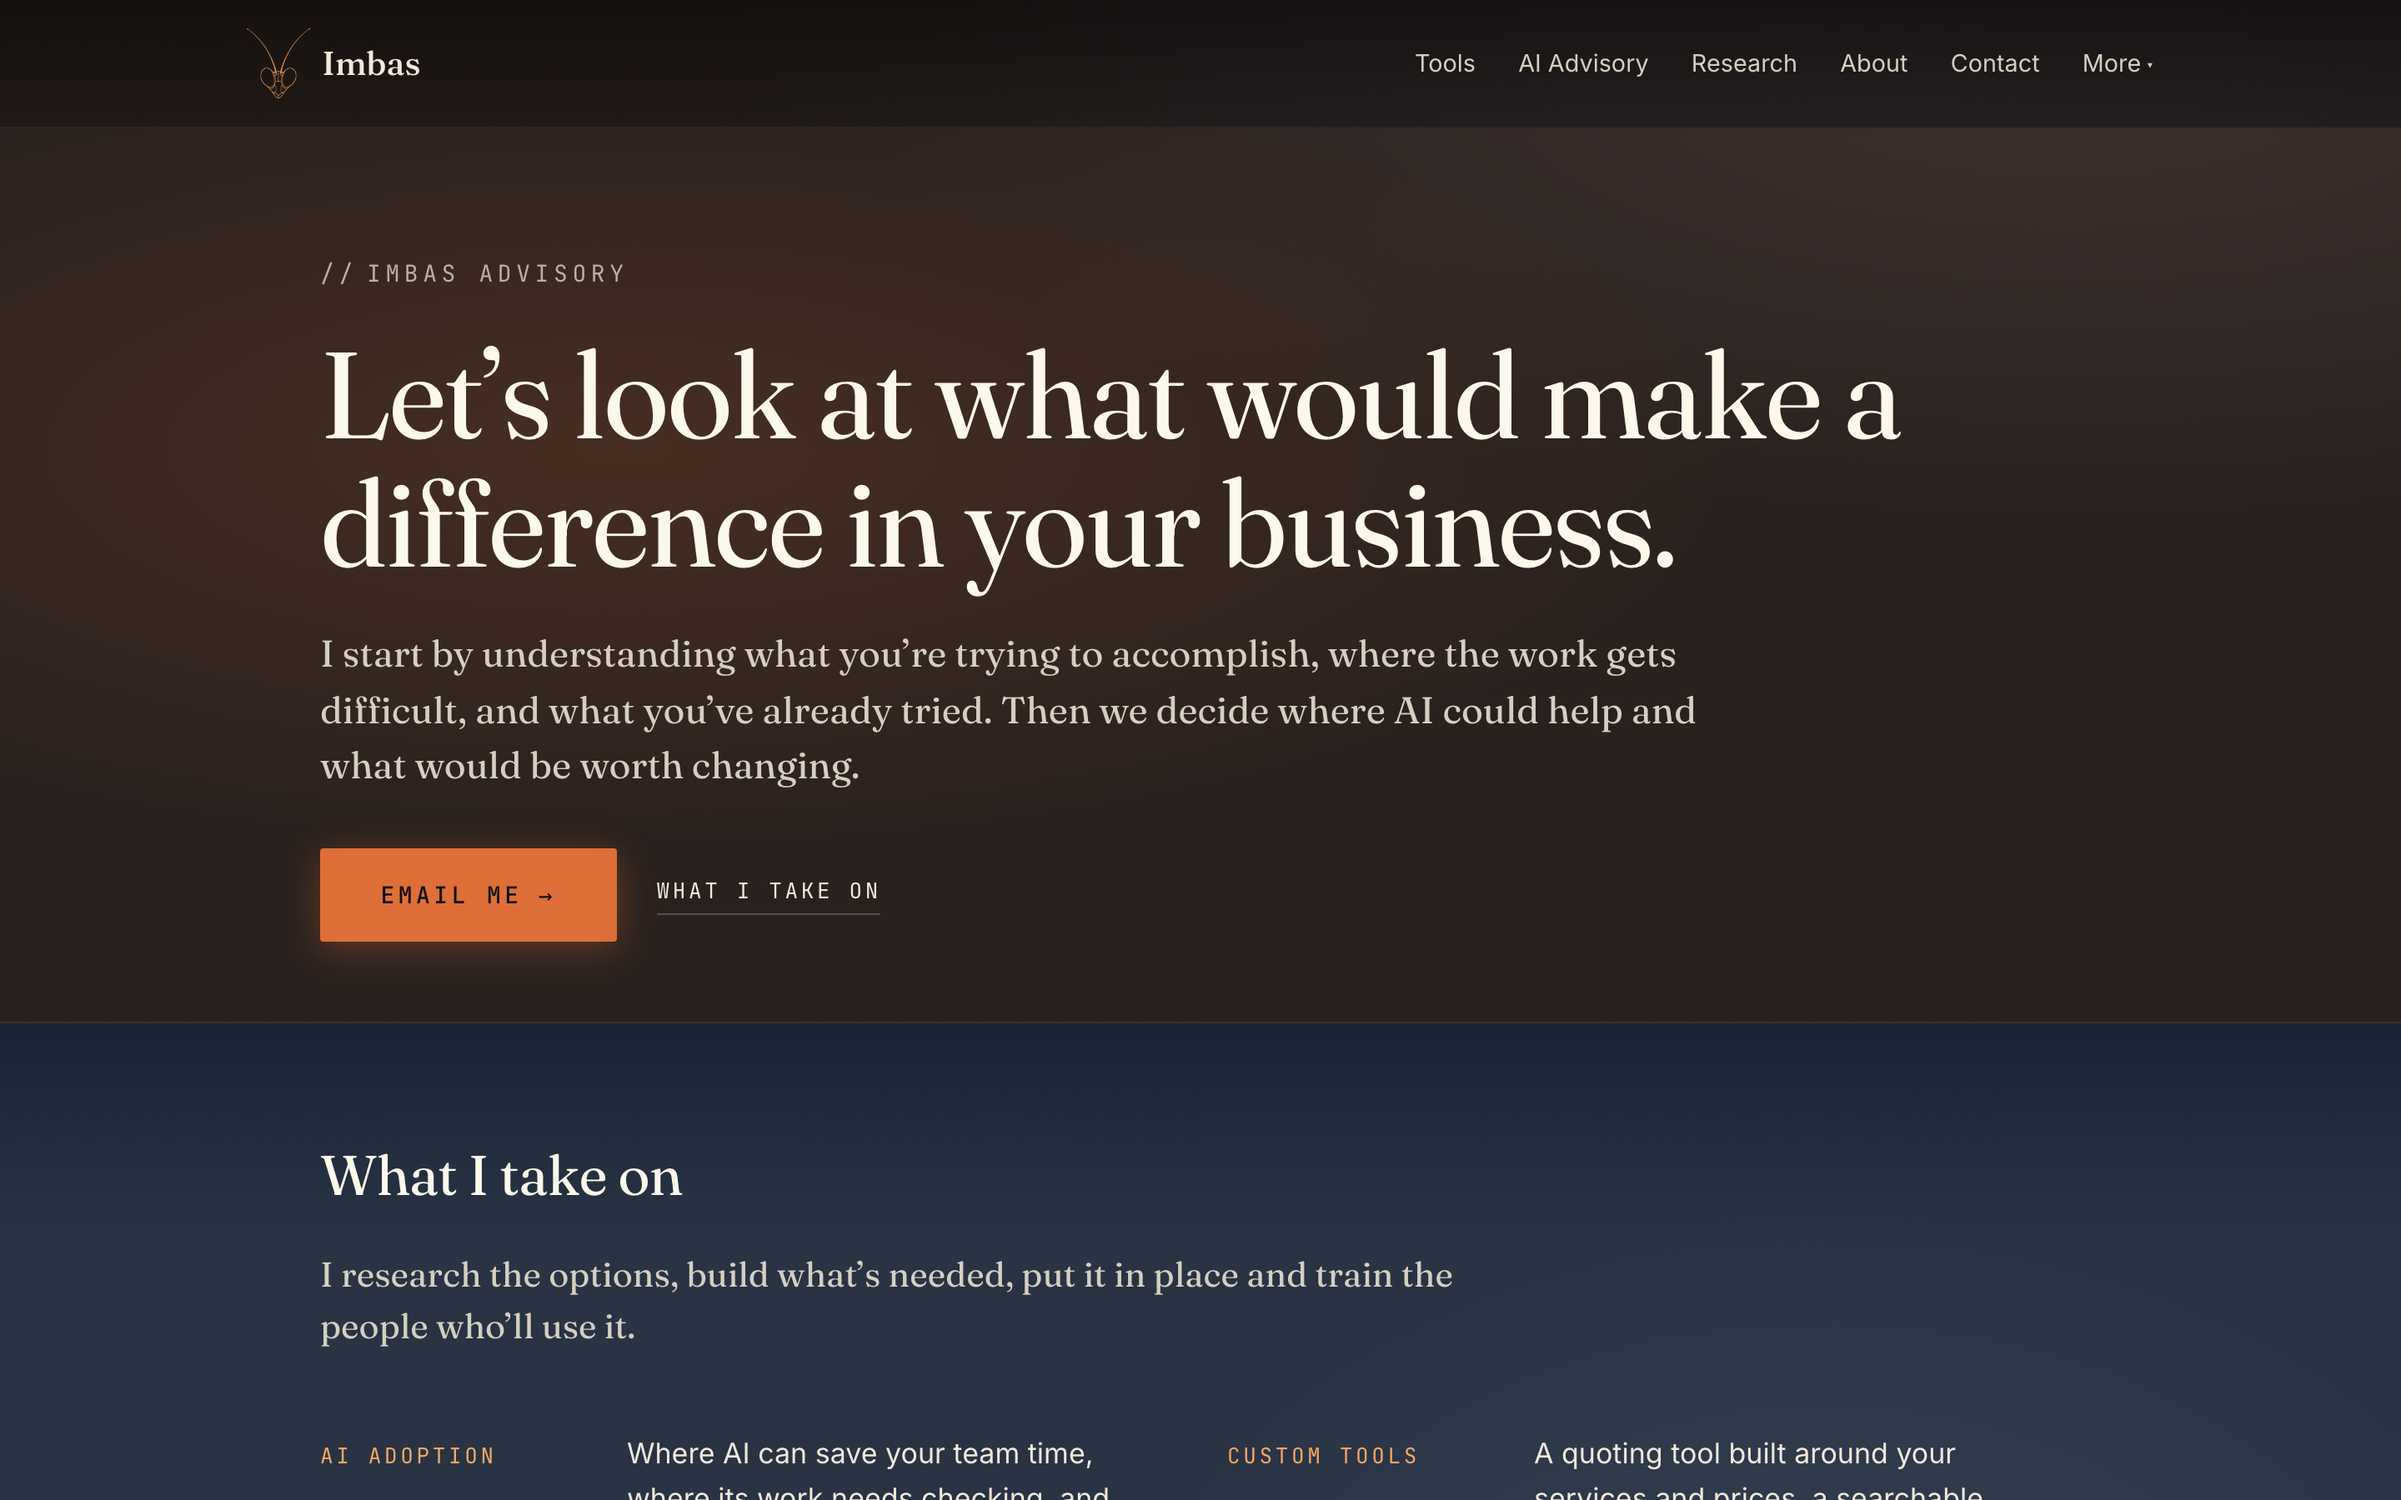
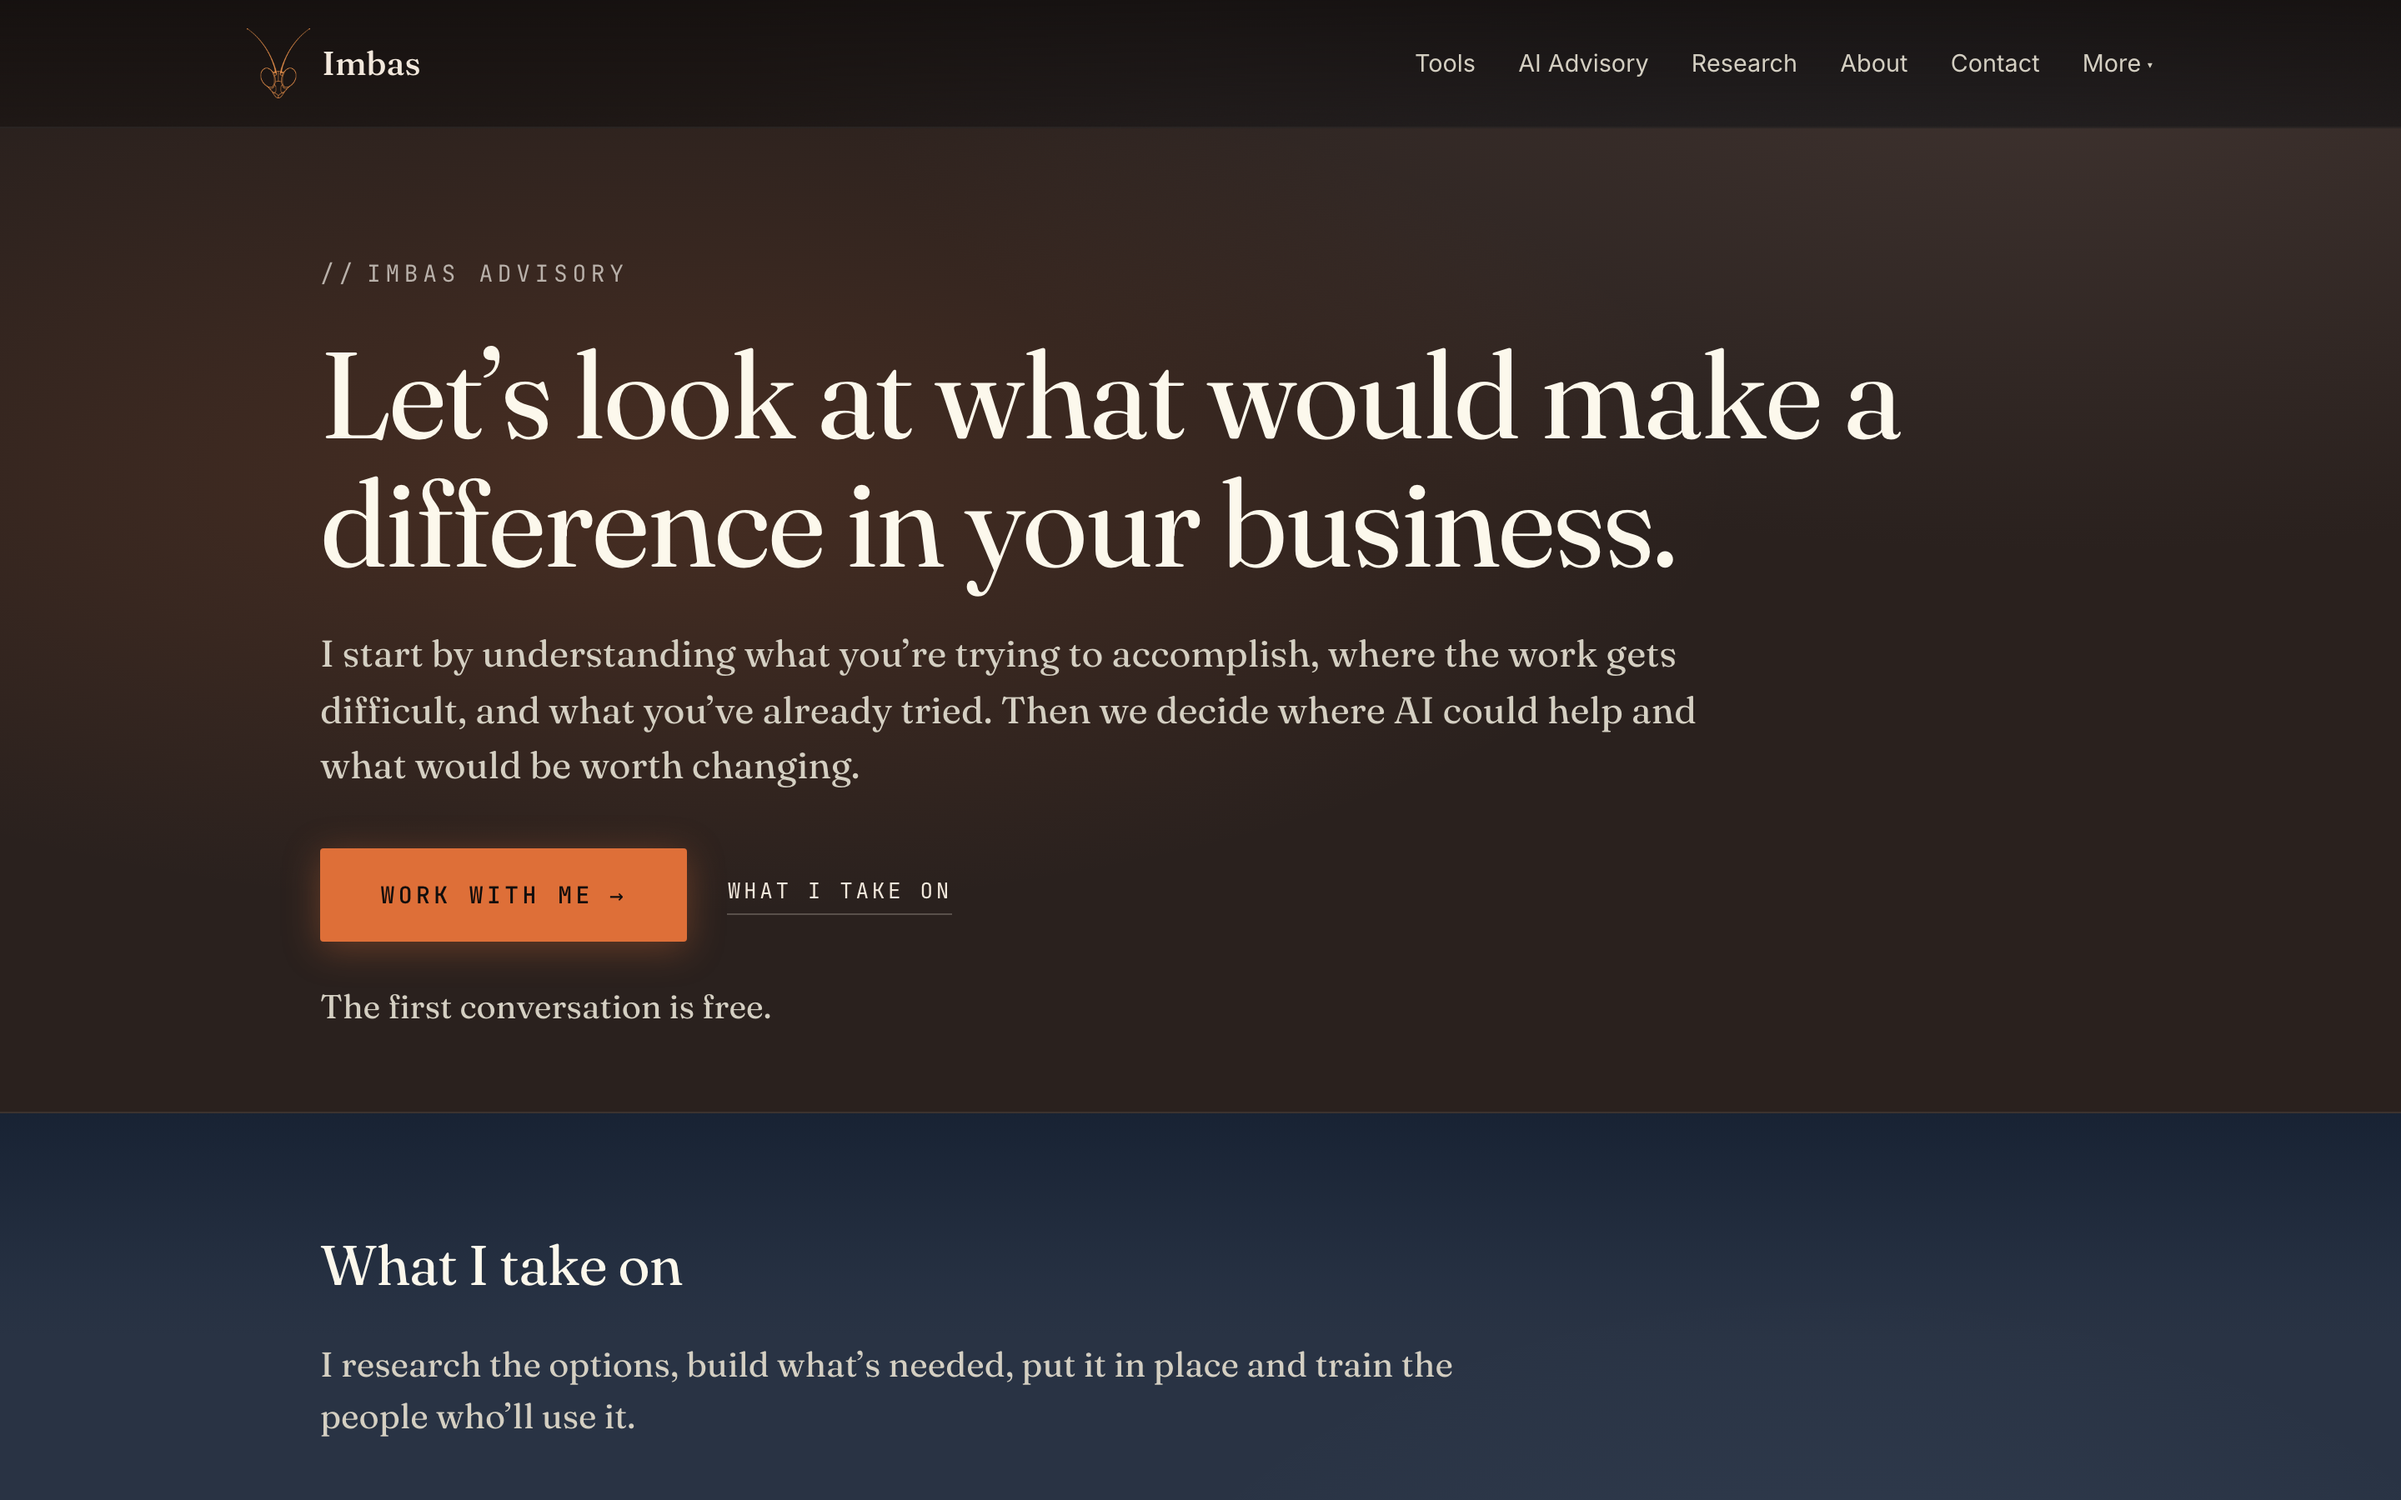
Send Advisory's main button to the reply section and add the reply block
Item 3 of the founder brief "Homepage: ready for outreach".

- Hero: "Email me" becomes "Work with me" and links to #work-with-me,
  with "The first conversation is free." directly under the actions.
- "Lykens, Pennsylvania" under the name.
- Close: the section takes id work-with-me, and the reply block (Text me,
  Email me, "Text 717-982-7168", the address) replaces the single Email
  me button and the printed address. Heading, note, free line and the
  confidentiality note are unchanged. No reordering.

scripts/qa/scenarios.mjs: advisory-masthead asserted "Email me", which
the hero no longer carries, so the harness would have stopped there
without recording a frame. It now asserts "Work with me", and its
expected prose names the free line.

Board: advisory-masthead and advisory-boundaries moved at both
viewports and home-tools held. With advisory.html and scenarios.mjs
reverted to 992a4e1 in a throwaway copy all four frames matched their
baselines; a second observation on a new renderer repeated all four
hashes; each scenario was accepted on its own with --update. Masthead
57ee6d3c... / 72c25622..., boundaries 579289e5... / bda01e42...,
equal to both observations. Blocks ratchet resealed for the
scenarios.mjs hash: no ceiling row moved, --check passes. The census
holds. sitemap.xml: /advisory.html lastmod 2026-11-10.

diff --git a/advisory.html b/advisory.html
@@ -185,9 +185,10 @@
       <h1 id="adv-h1">Let&rsquo;s look at what would make a difference in your business.</h1>
       <p class="adv-hero__lede">I start by understanding what you&rsquo;re trying to accomplish, where the work gets difficult, and what you&rsquo;ve already tried. Then we decide where AI could help and what would be worth changing.</p>
       <div class="adv-actions">
-        <a class="adv-btn" href="mailto:brendan@imbaslabs.com?subject=Work%20with%20me">Email me <span aria-hidden="true">&rarr;</span></a>
+        <a class="adv-btn" href="#work-with-me">Work with me <span aria-hidden="true">&rarr;</span></a>
         <a class="adv-textlink" href="#adv-help-h2">What I take on</a>
       </div>
+      <p class="adv-free">The first conversation is free.</p>
     </div>
   </section>
 
@@ -222,6 +223,7 @@
                 <h2 id="adv-proof-h2">Brendan Nestor</h2>
                 <a class="adv-textlink" href="https://www.linkedin.com/in/brendannestor" rel="me">LinkedIn</a>
               </div>
+              <p class="adv-place">Lykens, Pennsylvania</p>
               <p class="adv-founder-p">I&rsquo;ve led growth at an early-stage company, managed a team across LA, New York and Europe, and built and run my own service business. At Imbas I also measure what AI answers leave out. That&rsquo;s how I know where AI is worth using in your business, and where a person still needs to check its work.</p>
             </div>
           </div>
@@ -285,15 +287,19 @@
   </section>
 
   <!-- BLUE: the Case Archive navy -->
-  <section class="adv-band band-cool band-cool--navy adv-close" aria-labelledby="adv-close-h2">
+  <section class="adv-band band-cool band-cool--navy adv-close" id="work-with-me" aria-labelledby="adv-close-h2">
     <div class="adv-wrap">
       <h2 id="adv-close-h2">Tell me what&rsquo;s slowing you down.</h2>
       <p class="adv-close__note">A few lines about what you want to improve and how you handle it now are enough to start.</p>
       <p class="adv-close__free">The first conversation is free.</p>
-      <div class="adv-actions">
-        <a class="adv-btn" href="mailto:brendan@imbaslabs.com?subject=Work%20with%20me">Email me <span aria-hidden="true">&rarr;</span></a>
+      <div class="reply-block">
+        <div class="adv-actions">
+          <a class="adv-btn" href="sms:+17179827168?&amp;body=Hi%20Brendan%2C%20I%20found%20you%20through%20imbaslabs.com.%20">Text me <span aria-hidden="true">&rarr;</span></a>
+          <a class="adv-textlink" href="mailto:brendan@imbaslabs.com?subject=Work%20with%20me">Email me</a>
+        </div>
+        <p class="adv-close__addr">Text <span class="reply-block__select">717-982-7168</span></p>
+        <p class="adv-close__addr"><span class="reply-block__select">brendan@imbaslabs.com</span></p>
       </div>
-      <p class="adv-close__addr">brendan@imbaslabs.com</p>
       <p class="adv-terms">Your material stays confidential. Nothing from client work enters the Imbas public record without your written consent and separate governance. Advisory clients don&rsquo;t influence Imbas&rsquo;s public methods, measurements, or findings. <a href="/independence.html">Independence policy</a>.</p>
     </div>
   </section>

diff --git a/docs/qa/visual-acceptance-harness/manifest.md b/docs/qa/visual-acceptance-harness/manifest.md
@@ -63,14 +63,14 @@ A board that lists only what it covers reads as complete. These are the result s
 
 | field | value |
 | --- | --- |
[1 lines of base64/hex data omitted]
-| bytes | 744129 |
[1 lines of base64/hex data omitted]
+| bytes | 752795 |
 | snapshot | `advisory-boundaries--desktop.snapshot.txt` |
[1 lines of base64/hex data omitted]
-| snapshot bytes | 2473 |
[1 lines of base64/hex data omitted]
+| snapshot bytes | 2611 |
 | viewport | 1440x900@2x (desktop) |
 | url | `/advisory.html`, query `(none)` |
-| framed on | `.adv-terms` at scroll offset 3814 |
+| framed on | `.adv-terms` at scroll offset 3927 |
 | browser | `HeadlessChrome/148.0.7778.96` |
 | state captured | Advisory, the terms line in the close — the wall between advisory work and Imbas's public measurement |
 | expected behaviour | The close of the page and the one line of terms under it. The v4.4 rewrite folded the three practice commitments this frame used to hold into that line, so the frame follows it. The line still carries the boundary the rest of the tree depends on: client material stays confidential, and advisory clients do not influence Imbas's public methods, measurements, or findings, with the independence policy one link away. This boundary is the reason the commercial page can sit beside the measurement work at all, so it is photographed rather than left to prose. |
@@ -79,14 +79,14 @@ A board that lists only what it covers reads as complete. These are the result s
 
 | field | value |
 | --- | --- |
[1 lines of base64/hex data omitted]
-| bytes | 591880 |
[1 lines of base64/hex data omitted]
+| bytes | 574352 |
 | snapshot | `advisory-boundaries--mobile.snapshot.txt` |
[1 lines of base64/hex data omitted]
-| snapshot bytes | 1586 |
[1 lines of base64/hex data omitted]
+| snapshot bytes | 1684 |
 | viewport | 375x812@3x (mobile) |
 | url | `/advisory.html`, query `(none)` |
-| framed on | `.adv-terms` at scroll offset 6290 |
+| framed on | `.adv-terms` at scroll offset 6448 |
 | browser | `HeadlessChrome/148.0.7778.96` |
 | state captured | Advisory, the terms line in the close — the wall between advisory work and Imbas's public measurement |
 | expected behaviour | The close of the page and the one line of terms under it. The v4.4 rewrite folded the three practice commitments this frame used to hold into that line, so the frame follows it. The line still carries the boundary the rest of the tree depends on: client material stays confidential, and advisory clients do not influence Imbas's public methods, measurements, or findings, with the independence policy one link away. This boundary is the reason the commercial page can sit beside the measurement work at all, so it is photographed rather than left to prose. |
@@ -95,33 +95,33 @@ A board that lists only what it covers reads as complete. These are the result s
 
 | field | value |
 | --- | --- |
[1 lines of base64/hex data omitted]
-| bytes | 1011530 |
[1 lines of base64/hex data omitted]
+| bytes | 995105 |
 | snapshot | `advisory-masthead--desktop.snapshot.txt` |
[1 lines of base64/hex data omitted]
-| snapshot bytes | 1615 |
[1 lines of base64/hex data omitted]
+| snapshot bytes | 1308 |
 | viewport | 1440x900@2x (desktop) |
 | url | `/advisory.html`, query `(none)` |
 | framed on | `.adv-hero` at scroll offset 0 |
 | browser | `HeadlessChrome/148.0.7778.96` |
 | state captured | Advisory, the hero — the heading, the lede, and the two ways to act under it |
-| expected behaviour | The proposition the page opens with since the v4.4 rewrite: the heading, the lede that says how the work starts, and the two actions under it, Email me and the link down to what the work covers. A later Advisory restructure changes this first, so it is framed on its own. |
+| expected behaviour | The proposition the page opens with since the v4.4 rewrite: the heading, the lede that says how the work starts, and the two actions under it, Work with me (down to the reply section) and the link down to what the work covers, and the free-conversation line under them. A later Advisory restructure changes this first, so it is framed on its own. |
 
 ### `advisory-masthead--mobile.png`
 
 | field | value |
 | --- | --- |
[1 lines of base64/hex data omitted]
-| bytes | 788306 |
[1 lines of base64/hex data omitted]
+| bytes | 797586 |
 | snapshot | `advisory-masthead--mobile.snapshot.txt` |
[1 lines of base64/hex data omitted]
-| snapshot bytes | 1131 |
[1 lines of base64/hex data omitted]
+| snapshot bytes | 1026 |
 | viewport | 375x812@3x (mobile) |
 | url | `/advisory.html`, query `(none)` |
 | framed on | `.adv-hero` at scroll offset 0 |
 | browser | `HeadlessChrome/148.0.7778.96` |
 | state captured | Advisory, the hero — the heading, the lede, and the two ways to act under it |
-| expected behaviour | The proposition the page opens with since the v4.4 rewrite: the heading, the lede that says how the work starts, and the two actions under it, Email me and the link down to what the work covers. A later Advisory restructure changes this first, so it is framed on its own. |
+| expected behaviour | The proposition the page opens with since the v4.4 rewrite: the heading, the lede that says how the work starts, and the two actions under it, Work with me (down to the reply section) and the link down to what the work covers, and the free-conversation line under them. A later Advisory restructure changes this first, so it is framed on its own. |
 
 ### `chip-arrival--desktop.png`
 
